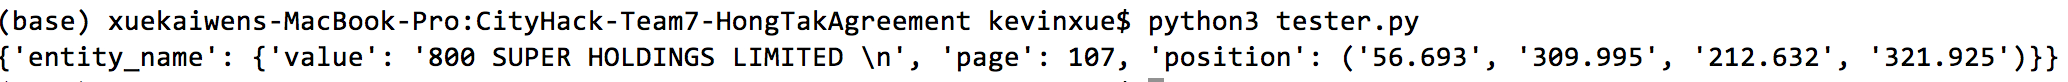
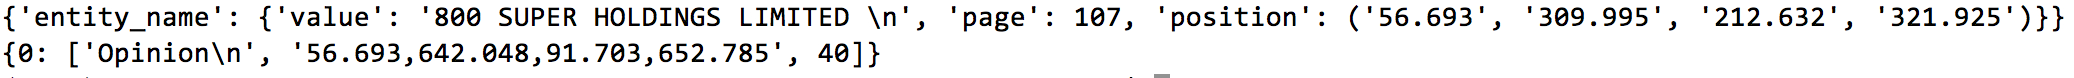
package completed

diff --git a/starwatch/find_num.py b/starwatch/find_num.py
@@ -29,7 +29,7 @@ def extract_first(soup):
     p = 0
     pages = soup.find_all('page')
     for pg in pages:
-        messages = extract_from_page_by_line(pg,'audit',ave,p)
+        messages = extract_from_page_by_line(pg,'net profit',ave,p)
         p+=1
         if messages is not None:
             for message in messages:
@@ -63,7 +63,7 @@ def extract(soup):
     for content in contents:
         n = int(contents[content][2])+1
         page = soup.find('page',id=n)
-        opinions = extract_from_page_by_line(page,r'^\W*opinion\W*$',0,n-1)
+        opinions = extract_from_page_by_line(page,r'^\W*net profit\W*$',0,n-1)
         if opinions is not None:
             for opinion in opinions:
                 opinions[opinion][0] = opinions[opinion][0].get_text()
@@ -80,4 +80,3 @@ if __name__ == '__main__':
         ops = extract(soup)
         for opinion in ops:
             print(ops[opinion])
-            

diff --git a/starwatch/__init__.py b/starwatch/__init__.py
@@ -1,5 +1,6 @@
-from .extractor import extract as ex
+from .find_entity import extract as ex
 from .find_auditor import extract as exp
+from .find_num import extract as expe
 from bs4 import BeautifulSoup
 from . import toxml
 
@@ -12,3 +13,8 @@ def extract_auditor(file_name):
     with open(file_name) as f:
         soup = BeautifulSoup(f, 'xml')
     return exp(soup)
+
+def extract_num(file_name):
+    with open(file_name) as f:
+        soup = BeautifulSoup(f, 'xml')
+    return expe(soup)

diff --git a/tester.py b/tester.py
@@ -2,7 +2,9 @@ import starwatch
 import starwatch.toxml
 
 starwatch.toxml.toxml("tester.xml", "../CityU-Hackathon-2019/Testing/67/*.pdf")
-# res = starwatch.extract_entity("tester.xml")
-# print(res)
+res = starwatch.extract_entity("tester.xml")
+print(res)
 res = starwatch.extract_auditor("tester.xml")
+print(res)
+res = starwatch.extract_num("tester.xml")
 print(res)

diff --git a/README.md b/README.md
@@ -1,5 +1,54 @@
 # CityHack-Team7-HongTakAgreement
 
+# How to Use our API
+
+We encapsulate out files into one package `starwatch`. The use of API is very simple.
+
+At the beginning of your program, add
+
+```python
+import starwatch
+```
+
+
+
+## PDF to XML converter
+
+```python
+starwatch.toxml.toxml(out_file, in_file)
+```
+
+converts a PDF to a machine readable XML file. This function is wrapper and enhancer of the [pdfmine](https://github.com/pdfminer/pdfminer.six) library. It is found especially useful when we process this project.
+
+The format of the returned object should
+
+Parameters:
+
+- `out_file`: the output xml file
+- `in_file`: the input pdf file
+
+
+
+## Extractor
+
+```python
+starwatch.extract_entity(file_name)
+starwatch.extract_auditor(file_name)
+starwatch.extract_num(file_name)
+```
+
+Extracts information from a file
+
+Parameters:
+
+- `file_name`: the XML converted before
+
+Return value:
+
+- a python dictionary containing the extracted information
+
+
+
 # Implementation
 
 ## Approaches
@@ -26,39 +75,3 @@ There are totally 2,487,246 words in the training set
 ## Difficulties
 
 The OCR results are not good. Thus, we use a Python library pdfMine plus some self-written code to transform the pdf files to xml files.
-
-# API
-
-We encapsulate out files into one package `starWatch`. There are 2 important functions provided.
-
-## PDF to XML converter
-
-```python
-starwatch.toxml(out_file, in_file)
-```
-
-converts a PDF to a machine readable XML file. This function is wrapper and enhancer of the [pdfmine](https://github.com/pdfminer/pdfminer.six) library. It is found especially useful when we process this project.
-
-The format of the returned object should
-
-Parameters:
-- `out_file`: the output xml file
-- `in_file`: the input pdf file
-
-
-
-## Extractor
-
-```python
-starwatch.extract(file_name)
-```
-
-Extracts information from a file
-
-Parameters:
-
-- `file_name`: the XML converted before
-
-Return value:
-
-- a python dictionary containing the extracted information
